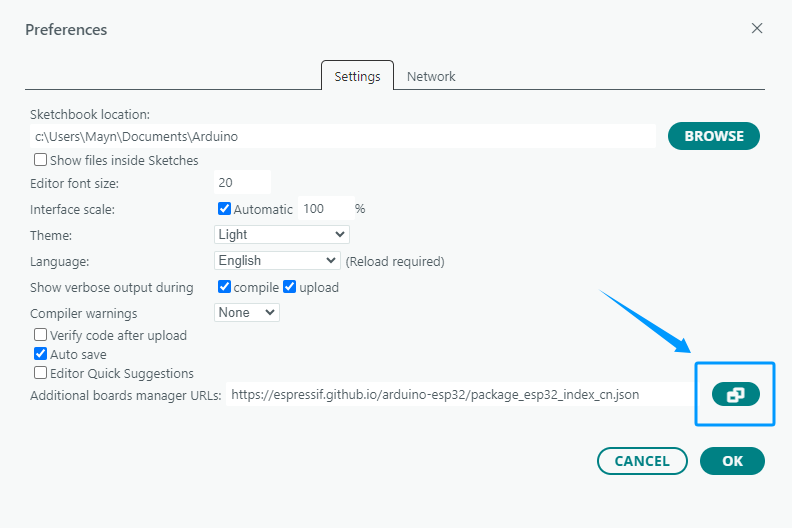
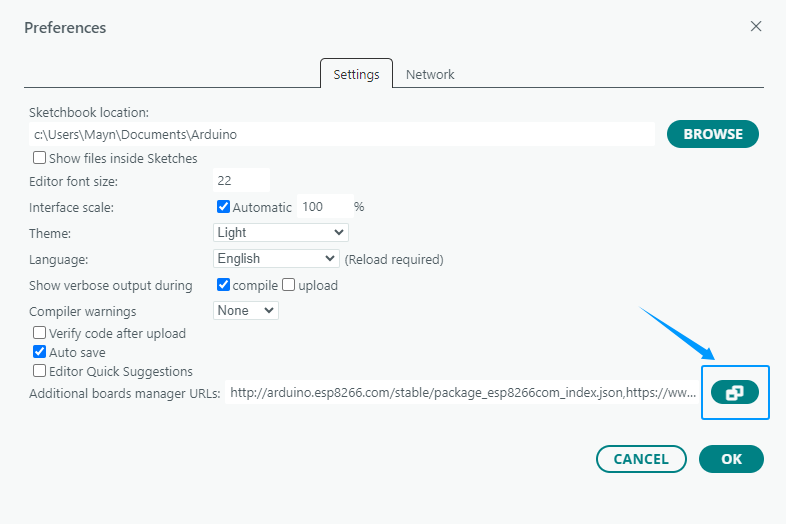
1

diff --git a/docs/source/ArduinoIDEUserGuide.rst b/docs/source/ArduinoIDEUserGuide.rst
@@ -47,8 +47,8 @@ F. Click Install and wait for the process to complete. Finally, click Finish.
 
 ----
 
-2. Add ESP32 Board Manager
---------------------------
+2. Add ESP8266 Board Manager
+----------------------------
 
 A. Open the Arduino IDE, click **File** → **Preferences** in the upper left corner, and copy and paste the following address into the Additional Board Manager URLs input box.
 
@@ -57,9 +57,13 @@ A. Open the Arduino IDE, click **File** → **Preferences** in the upper left co
    :align: center
 ----
 
-B. After entering the URL, click OK. **https://espressif.github.io/arduino-esp32/package_esp32_index.json**
+B. After entering the URL, click OK. 
 
-.. image:: _static/arduino/7.esp.png
+- **https://www.arduino.me/package_esp32_index.json**
+
+- **http://arduino.esp8266.com/stable/package_esp8266com_index.json**
+
+.. image:: _static/arduino/7.ESP.png
    :width: 800
    :align: center
 
@@ -67,42 +71,35 @@ B. After entering the URL, click OK. **https://espressif.github.io/arduino-esp32
 
    <div style="margin-top: 30px;"></div>
 
-.. image:: _static/arduino/8.esp.png
+.. image:: _static/arduino/8.ESP1.png
    :width: 800
    :align: center
+
 ----
 
 C. After completing this step, close and reopen the Arduino IDE.
 
 ----
 
-3. Download  ESP32 Core Package
-----------------------------
+3. Download  ESP8266 Core Package
+--------------------------------
 
-A. Click on the **BOARDS MANAGER** icon on the right and search for **"ESP32"**.
+A. Click on the **BOARDS MANAGER** icon on the right and search for **"ESP8266"**.
 
-.. image:: _static/arduino/19.esp.png
+.. image:: _static/arduino/19.ESP.png
    :width: 800
    :align: center
 
 ----
 
-B. Find the core package named **esp32 by Espressif systems**, select version **2.0.12**, and click the **install** button to install it.
+B. Find the core package named **esp8266 by ESP8266 Community**, select version **2.4.2**, and click the **install** button to install it.
 
-.. image:: _static/arduino/20.esp.png
+.. image:: _static/arduino/20.ESP.png
    :width: 800
    :align: center
 ----
 
-C. You can view the download progress in the OUTLOOK window.
-
-.. image:: _static/arduino/21.esp.png
-   :width: 1000
-   :align: center
-
-----
-
-D. The prompt for successful installation indicates that the ESP32 core package has been successfully installed.
+C. The prompt for successful installation indicates that the ESP32 core package has been successfully installed.
 
 .. image:: _static/arduino/22.esp.png
    :width: 1000
@@ -111,6 +108,7 @@ D. The prompt for successful installation indicates that the ESP32 core package 
 ----
 
 .. note::
+   
    - It is recommended to install the core package version 2.0.12 for this package. Using other versions may cause program or functional abnormalities
    - During the download process of the core package, it may fail due to network failures. You can try several more times.
 
